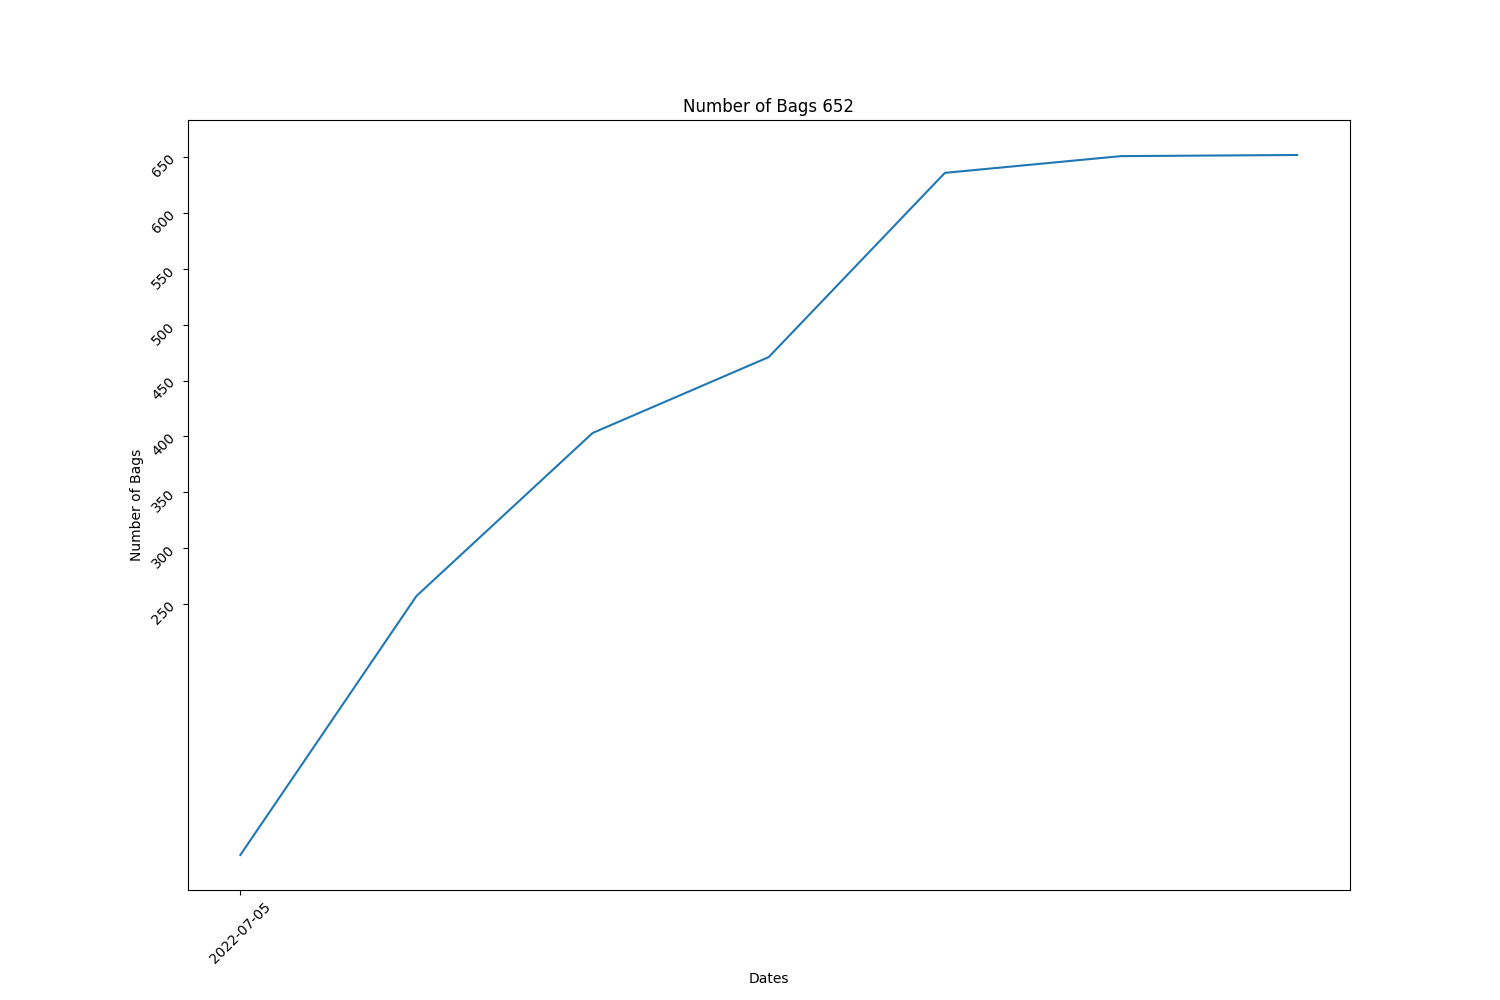
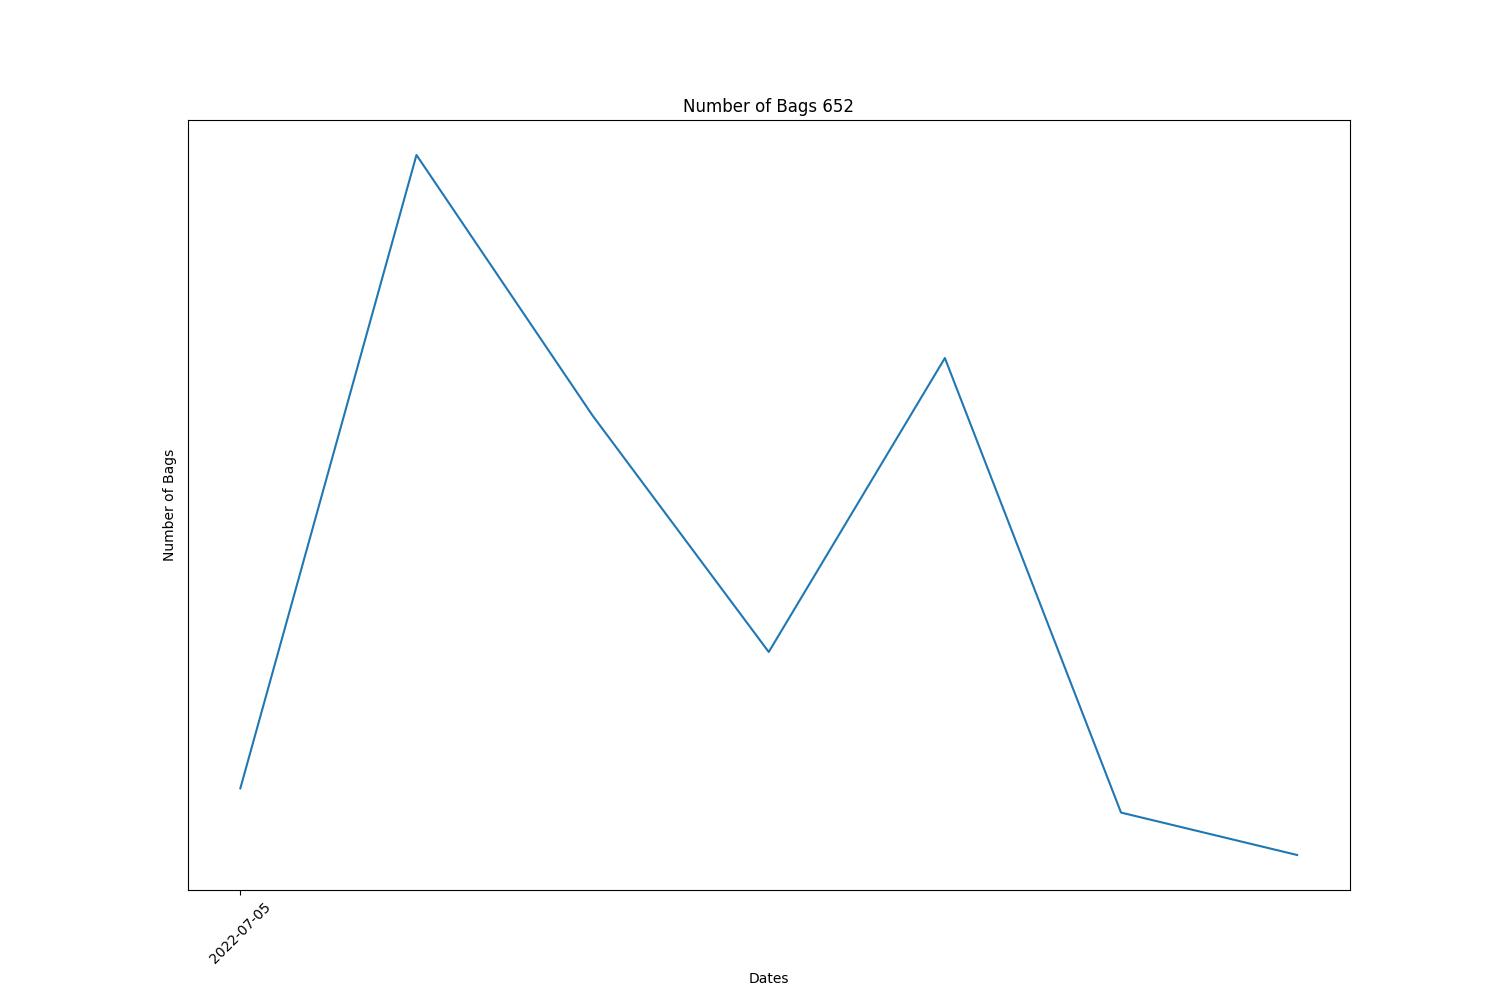
bags number limit

diff --git a/report.py b/report.py
@@ -116,8 +116,8 @@ def get_termination(start_time, end_time):
 
 def get_bags_nums(start_time = '', end_time = ''):
   if start_time and end_time :
-    query_created = {"query": 'query MyQuery {{ storageBags( where: {{createdAt_gt: "{}" , createdAt_lt: "{}"}}) {{  id }} }}'.format(start_time, end_time) }
-    query_deleted = {"query": 'query MyQuery {{ storageBags( where: {{deletedAt_gt: "{}" , deletedAt_lt: "{}"}}) {{  id }} }}'.format(start_time, end_time) }
+    query_created = {"query": 'query MyQuery {{ storageBags( limit: 33000, offset: 0, where: {{createdAt_gt: "{}" , createdAt_lt: "{}"}}) {{  id }} }}'.format(start_time, end_time) }
+    query_deleted = {"query": 'query MyQuery {{ storageBags( limit: 33000, offset: 0, where: {{deletedAt_gt: "{}" , deletedAt_lt: "{}"}}) {{  id }} }}'.format(start_time, end_time) }
   else :
     query_created = {"query": 'query MyQuery { storageBags(limit: 3000, offset:0) {  id } }'}
     query_deleted = {"query": 'query MyQuery { storageBags(limit: 3000, offset:0) {  id } }'}
@@ -349,7 +349,6 @@ def get_draw_bags(filename):
   for index, num_bag in enumerate(num_bags):
     if index == 0:
       continue
-    num_bags[index] += num_bags[index-1]
   plot(dates[1:], num_bags[1:], 'Number of Bags {}'.format(num_created_bags - num_deleted_bags), 'Dates', 'Number of Bags', 0, 250 , 10, 50,filename)
 
 def sort_bags(data, key):

diff --git a/report_2022-07-13T00:48:12.000Z.md b/report_2022-07-13T00:48:12.000Z.md
@@ -38,17 +38,17 @@ Total Rewards: 9912822
 |   id |   dataObjectsSize |   dataObjectsSizeLimit |   dataObjectsCount |   bags |   Utilization |   dataObjectsSize, GB |
 |------|-------------------|------------------------|--------------------|--------|---------------|-----------------------|
 |   15 |                 0 |          1500000000000 |                  0 |      0 |   0           |             0         |
-|    9 |        2580456339 |          1000000000000 |                 12 |      1 |   0.00258046  |             2.40089   |
-|   10 |          13226270 |          1500000000000 |                  2 |      1 |   8.81751e-06 |             0.0123059 |
-|    4 |      909417322780 |          2000000000000 |              14852 |    634 |   0.454709    |           846.135     |
-|   11 |          13226270 |          1500000000000 |                  2 |      1 |   8.81751e-06 |             0.0123059 |
-|   12 |                 0 |          1500000000000 |                  0 |      0 |   0           |             0         |
 |   14 |          13226270 |          1500000000000 |                  2 |      1 |   8.81751e-06 |             0.0123059 |
+|    9 |        2580456339 |          1000000000000 |                 12 |      1 |   0.00258046  |             2.40089   |
 |   13 |          13226270 |          1500000000000 |                  2 |      1 |   8.81751e-06 |             0.0123059 |
+|   10 |          13226270 |          1500000000000 |                  2 |      1 |   8.81751e-06 |             0.0123059 |
 |    2 |      910880735855 |          1400000000000 |              14887 |    646 |   0.650629    |           847.496     |
+|   11 |          13226270 |          1500000000000 |                  2 |      1 |   8.81751e-06 |             0.0123059 |
 |    3 |      910880735855 |          1400000000000 |              14887 |    646 |   0.650629    |           847.496     |
 |    6 |      910880735855 |          2000000000000 |              14887 |    646 |   0.45544     |           847.496     |
 |    8 |      910880735855 |          1500000000000 |              14887 |    646 |   0.607254    |           847.496     |
+|   12 |                 0 |          1500000000000 |                  0 |      0 |   0           |             0         |
+|    4 |      909417322780 |          2000000000000 |              14852 |    634 |   0.454709    |           846.135     |
 |    1 |      910880735855 |          2000000000000 |              14887 |    646 |   0.45544     |           847.496     |
 |    0 |         264524788 |          2000000000000 |                 40 |      1 |   0.000132262 |             0.246118  |
 ## BUCKETS CREATED
@@ -56,12 +56,12 @@ Bucket Created: 3
 |   id |   dataObjectsSize |   dataObjectsSizeLimit |   dataObjectsCount |   bags |   Utilization |   dataObjectsSize, GB |
 |------|-------------------|------------------------|--------------------|--------|---------------|-----------------------|
 |   15 |                 0 |          1500000000000 |                  0 |      0 |   0           |             0         |
-|   12 |                 0 |          1500000000000 |                  0 |      0 |   0           |             0         |
 |   14 |          13226270 |          1500000000000 |                  2 |      1 |   8.81751e-06 |             0.0123059 |
+|   12 |                 0 |          1500000000000 |                  0 |      0 |   0           |             0         |
 ## BUCKETS DELETED
 Bucket Deleted: 0
 ## Bags
-Bags Created: 50 
+Bags Created: 650 
 
 Bags Deleted: 0 
 
@@ -746,20 +746,20 @@ Percentage Lost Objects: %15.625
 
 |    id | createdAt                |       size |   storageBagId |
 |-------|--------------------------|------------|----------------|
-| 14880 | 2022-07-07T06:13:30.000Z |       6298 |           2604 |
+| 14892 | 2022-07-07T12:53:54.000Z |      13254 |           2604 |
 | 14871 | 2022-07-06T21:29:42.000Z | 3373945809 |           2310 |
+| 14882 | 2022-07-07T06:15:54.000Z |       6308 |           2604 |
 | 14873 | 2022-07-07T06:04:42.000Z |   18937174 |           2604 |
 | 14879 | 2022-07-07T06:13:30.000Z |   16344153 |           2604 |
-| 14882 | 2022-07-07T06:15:54.000Z |       6308 |           2604 |
+| 14880 | 2022-07-07T06:13:30.000Z |       6298 |           2604 |
 | 14891 | 2022-07-07T12:53:54.000Z |  122011088 |           2604 |
-| 14892 | 2022-07-07T12:53:54.000Z |      13254 |           2604 |
 | 14896 | 2022-07-07T12:56:30.000Z |      13622 |           2604 |
 | 14905 | 2022-07-07T13:04:30.000Z |   30790234 |           2604 |
 | 14907 | 2022-07-07T13:07:24.000Z |   30790234 |           2604 |
 | 14908 | 2022-07-07T13:07:24.000Z |      12764 |           2604 |
-| 14920 | 2022-07-08T09:43:00.000Z |      12568 |           2604 |
 | 14923 | 2022-07-08T11:48:18.000Z |    2848208 |           2239 |
 | 14924 | 2022-07-08T11:48:18.000Z |      18394 |           2239 |
+| 14920 | 2022-07-08T09:43:00.000Z |      12568 |           2604 |
 | 14925 | 2022-07-08T11:56:12.000Z |    2848208 |           2239 |
 | 14937 | 2022-07-09T01:56:48.000Z |      10644 |           2639 |
 | 14939 | 2022-07-09T05:43:48.000Z |      40668 |           2198 |
